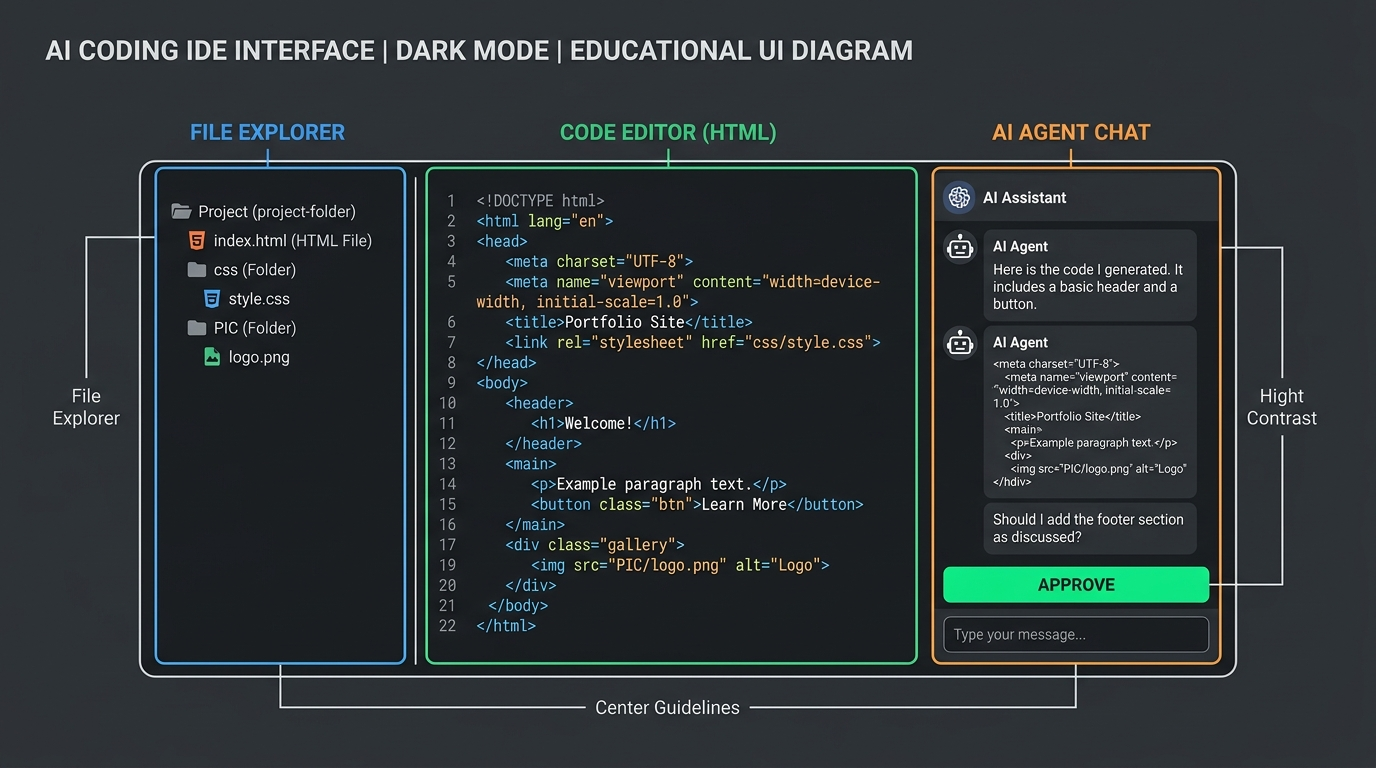
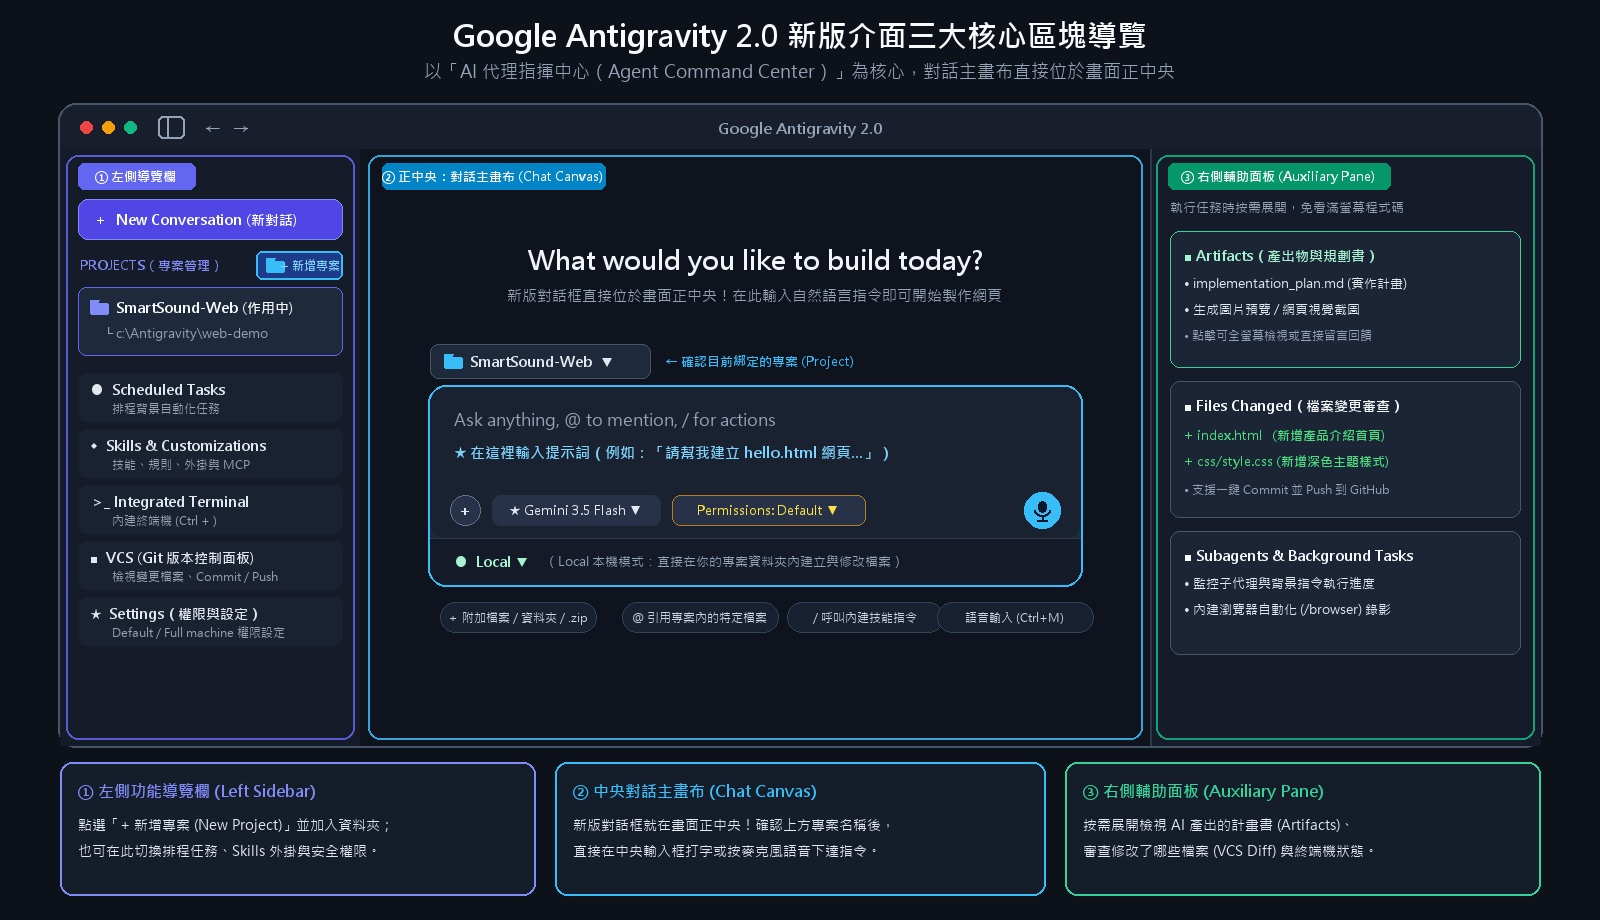
Update Chapter 1 text and UI layout diagram to match Antigravity 2.0

diff --git a/chapters/chapter1.html b/chapters/chapter1.html
@@ -61,84 +61,90 @@
 
       <!-- 1-1 -->
       <section id="sec-1-1" class="content-section">
-        <h2>1-1 什麼是 Antigravity？</h2>
-        <p><strong>Antigravity</strong> 是一款以「Agentic AI（代理型人工智慧）」為核心的新一代智能開發助理與 IDE。傳統的程式碼編輯器需要你自己打每一行程式碼，而 Antigravity 就像配備了一個經驗豐富、24 小時在線的資深工程師伴侶（Pair Programmer）。</p>
-        <p>你不需要預先精通 HTML、CSS 或 JavaScript，只要透過「日常說話的自然語言（Prompt）」，Antigravity 就能替你直接撰寫程式碼、修改錯誤、建立檔案，甚至執行系統指令！</p>
+        <h2>1-1 什麼是 Antigravity 2.0？</h2>
+        <p><strong>Google Antigravity 2.0</strong> 是一款以「Agentic AI（代理型人工智慧）」為核心的獨立桌面應用程式——它就像是你的<strong>「AI 代理指揮中心（Agent Command Center）」</strong>。傳統的開發工具一打開是密密麻麻的程式碼編輯器，而新版 Antigravity 2.0 則將<strong>「AI 對話主畫布（Chat Canvas）」直接放在畫面正中央</strong>，配備一位 24 小時在線的資深工程師伴侶。</p>
+        <p>你不需要預先精通 HTML、CSS 或 JavaScript，只要在正中央的對話框透過「日常說話的自然語言（Prompt）」或直接按麥克風語音說話（<code>Ctrl + M</code>），Antigravity 就能替你直接撰寫程式碼、建立檔案、產生圖片，甚至自動部署網站！</p>
         
         <div class="callout callout-tip">
           <span>💡</span>
           <div>
             <strong>給初學者的信心喊話：</strong>
-            不用害怕看不懂程式碼，在接下來的課程中，我們會學會如何像「產品經理」一樣向 Antigravity 表達需求，由它替我們實作出來。
+            不用害怕看不懂程式碼！新版 Antigravity 2.0 的設計理念就是讓你免看滿螢幕複雜程式碼，學會如何像「產品經理」一樣向 AI 表達需求，由它替我們實作出來。
           </div>
         </div>
       </section>
 
       <!-- 1-2 -->
       <section id="sec-1-2" class="content-section">
-        <h2>1-2 軟體下載與安裝流程</h2>
-        <p>請依照你目前使用的作業系統，依照以下步驟安裝：</p>
+        <h2>1-2 軟體下載、安裝與新版介面導覽</h2>
+        <p>請依照你目前使用的作業系統，依照以下步驟安裝 Antigravity 2.0：</p>
 
         <div class="step-box">
           <span class="step-number">步驟 1</span>
           <h4>取得官方安裝程式</h4>
-          <p>前往官方發布網站或下載連結，依據你的作業系統下載安裝檔：</p>
+          <p>前往官方下載頁面（<code>antigravity.google/download</code>），依據你的作業系統下載安裝檔：</p>
           <ul style="padding-left: 1.5rem; color: var(--text-muted); margin-bottom: 0.5rem;">
-            <li><strong>Windows 用戶：</strong> 下載 <code>.exe</code> 安裝檔案（或透過指令快速安裝）。</li>
-            <li><strong>macOS 用戶：</strong> 下載 <code>.dmg</code> 檔案（支援 Apple Silicon 與 Intel 晶片）。</li>
+            <li><strong>Windows 用戶：</strong> 下載 <code>Antigravity-x64.exe</code> 安裝檔案（支援 Windows 10/11 64-bit）。</li>
+            <li><strong>macOS 用戶：</strong> 下載 <code>Antigravity.dmg</code> 檔案（支援 Apple Silicon 與 Intel 晶片）。</li>
           </ul>
         </div>
 
         <div class="step-box">
           <span class="step-number">步驟 2</span>
           <h4>執行安裝與完成登入</h4>
-          <p>按兩下安裝檔案並依循畫面引導（按「下一步」直至完成）。首次開啟後，點選「Sign in / 登入」，綁定你的 Google / 專屬開發者帳號。</p>
+          <p>按兩下安裝檔案並依循畫面引導完成安裝。首次啟動 Antigravity 2.0 後，點選「Sign in / 登入」，選擇你個人的 Google 帳號即可進入主畫面。</p>
         </div>
 
         <div style="margin: 1.75rem 0; background: var(--bg-card); border: 1px solid var(--border-color); border-radius: 12px; padding: 1rem; text-align: center;">
-          <img src="../PIC/ch1_ide_layout.jpg" alt="Antigravity 三大核心視窗介面配置圖" style="width: 100%; max-width: 780px; border-radius: 8px; border: 1px solid var(--border-color); display: block; margin: 0 auto 0.75rem;">
-          <div style="font-size: 0.9rem; color: var(--text-muted); line-height: 1.6;">
-            <strong>▲ 圖 1-1：Antigravity 介面三大區塊導覽</strong><br>
-            ① <strong>左側檔案總管（File Explorer）</strong>：查看工作區裡有哪些檔案 ｜ ② <strong>中間編輯預覽區（Code Editor）</strong>：檢視 AI 寫好的程式碼 ｜ ③ <strong>右側 AI 對話框（Agent Chat）</strong>：我們下達指令的地方
+          <img src="../PIC/ch1_ide_layout.jpg" alt="Google Antigravity 2.0 新版介面三大核心區塊導覽圖" style="width: 100%; max-width: 820px; border-radius: 8px; border: 1px solid var(--border-color); display: block; margin: 0 auto 0.85rem;">
+          <div style="font-size: 0.9rem; color: var(--text-muted); line-height: 1.7; text-align: left; max-width: 780px; margin: 0 auto;">
+            <div style="text-align: center; font-weight: 700; color: var(--text-main); margin-bottom: 0.4rem;">▲ 圖 1-1：新版 Google Antigravity 2.0 介面三大核心區塊導覽</div>
+            <div>🔹 <strong>① 左側功能導覽欄（Left Sidebar，可點左上角圖示收合）</strong>：不再是傳統複雜的檔案樹！這裡用來點選 <code>📁+ New Project</code> 建立專案工作區、開啟新對話（New Conversation）、管理排程任務（Scheduled Tasks）、外掛技能（Skills）與安全權限（Settings）。</div>
+            <div>🔹 <strong>② 正中央：對話主畫布（Chat Canvas）</strong>：<strong>新版 AI 對話框就在畫面正中央！</strong>上方可確認目前綁定的專案名稱，中央輸入框（<code>Ask anything, @ to mention, / for actions</code>）支援打字、<code>+</code> 附加檔案/資料夾/壓縮檔、<code>🎙</code> 語音輸入（<code>Ctrl + M</code>）以及直接切換權限等級（<code>Permissions</code>）。</div>
+            <div>🔹 <strong>③ 右側輔助面板（Auxiliary Pane，執行時按需展開）</strong>：當 AI 開始工作時，可按需展開檢視 AI 寫好的實作計畫與圖片（<strong>Artifacts 產出物</strong>）、審查修改了哪些檔案（<strong>Files Changed / VCS 面板</strong>）或開啟內建終端機（<code>Ctrl + `</code>）。</div>
           </div>
         </div>
       </section>
 
       <!-- 1-3 -->
       <section id="sec-1-3" class="content-section">
-        <h2>1-3 工作環境（Workspace）深度解析：單資料夾 vs 多資料夾運作</h2>
-        <p>Antigravity 是一個**「具備環境感知能力的代理（Agent）」**，它必須明確知道它在哪裡操作檔案。這就是為什麼「工作區（Workspace）」的概念至關重要！</p>
+        <h2>1-3 專案工作區（Projects & Folders）深度解析：單資料夾 vs 多資料夾運作</h2>
+        <p>Antigravity 是一個<strong>「具備環境感知能力的代理（Agent）」</strong>，它必須明確知道自己被授權在哪個資料夾裡讀寫檔案。在新版 Antigravity 2.0 中，這套安全邊界機制稱為<strong>「Project（專案工作區）」</strong>！</p>
 
         <div class="step-box">
-          <h4>💡 工作環境的核心運作邏輯</h4>
-          <p>當你在 Antigravity 中開啟一個資料夾時，AI 會將該資料夾設為<strong>「作用中工作區（Active Workspace）」</strong>與<strong>「指令執行根目錄（Working Directory）」</strong>。AI 的所有檔案建立、搜尋、修改與終端機指令，都預設在這個安全邊界之內進行，避免影響到電腦的其他私人資料。</p>
+          <h4>💡 如何建立你的第一個 Project（專案工作區）？</h4>
+          <ol style="padding-left: 1.5rem; color: var(--text-muted); line-height: 1.8; margin-bottom: 0.5rem;">
+            <li>點擊<strong>左側導覽欄（Left Sidebar）</strong>中帶有加號的資料夾圖示 <code>📁+</code>，選擇 <strong>New Project（新增專案）</strong>。</li>
+            <li>點擊 <strong>Add Folder（新增資料夾）</strong>，選擇你電腦裡準備專門放這個網站的乾淨空資料夾（例如 <code>C:\Antigravity\web-demo</code>），再按下 <strong>Create</strong>。</li>
+            <li>回到正中央對話框下方，將執行模式維持在預設的 <strong><code>💻 Local</code>（本機模式）</strong>——這代表 AI 會直接在你剛才指定的資料夾內建立與修改網頁檔案！</li>
+          </ol>
         </div>
 
         <div style="margin: 1.75rem 0; background: var(--bg-card); border: 1px solid var(--border-color); border-radius: 12px; padding: 1rem; text-align: center;">
-          <img src="../PIC/ch1_workspace_boundary.jpg" alt="Workspace 安全沙盒邊界示意圖" style="width: 100%; max-width: 780px; border-radius: 8px; border: 1px solid var(--border-color); display: block; margin: 0 auto 0.75rem;">
+          <img src="../PIC/ch1_workspace_boundary.jpg" alt="Project 工作區安全沙盒邊界示意圖" style="width: 100%; max-width: 780px; border-radius: 8px; border: 1px solid var(--border-color); display: block; margin: 0 auto 0.75rem;">
           <div style="font-size: 0.9rem; color: var(--text-muted); line-height: 1.6;">
-            <strong>▲ 圖 1-2：工作區（Workspace）就像 AI 的「專屬安全工作室」</strong><br>
-            開啟獨立的專案資料夾後，AI 只會在發光的安全邊界內建立與修改網頁；外圍的電腦桌面、C 槽系統與私人照片皆受到隔離保護。
+            <strong>▲ 圖 1-2：專案工作區（Project Folders）就像 AI 的「專屬安全工作室」</strong><br>
+            綁定獨立的專案資料夾後，AI 預設只會在發光的安全邊界內建立與修改網頁；外圍的電腦桌面、C 槽系統與私人照片皆受到隔離保護。
           </div>
         </div>
 
-        <h3>兩種工作區使用模式：</h3>
+        <h3>兩種專案資料夾綁定模式：</h3>
         <div style="display: grid; grid-template-columns: repeat(auto-fit, minmax(280px, 1fr)); gap: 1.5rem; margin: 1.5rem 0;">
           <div style="background: var(--bg-card); border: 1px solid var(--border-color); border-radius: 10px; padding: 1.25rem;">
-            <div style="font-weight: 700; color: #818cf8; font-size: 1.05rem; margin-bottom: 0.5rem;">📁 模式 A：單一資料夾工作區（初學推薦）</div>
+            <div style="font-weight: 700; color: #818cf8; font-size: 1.05rem; margin-bottom: 0.5rem;">📁 模式 A：單一資料夾專案（初學最推薦）</div>
             <p style="font-size: 0.9rem; color: var(--text-muted); line-height: 1.6;">
-              <strong>適合場景：</strong> 獨立的小型專案、單一網站或新手練習。<br>
-              <strong>設定方式：</strong> 點選頂部選單 <code>File ➔ Open Folder</code>（開啟資料夾），選擇一個乾淨的空目錄（如 <code>C:\MyProjects\web-demo</code>）。<br>
-              <strong>優點：</strong> 結構單純、AI 不會被外部檔案干擾，所有的相對路徑（如 <code>PIC/image.jpg</code>）都能直接對應。
+              <strong>適合場景：</strong> 獨立網站、商品介紹頁或新手練習。<br>
+              <strong>設定方式：</strong> 在 <code>New Project ➔ Add Folder</code> 時只加入一個乾淨的專屬資料夾（如 <code>C:\Antigravity\web-demo</code>）。<br>
+              <strong>優點：</strong> 結構單純、AI 不會被其他外部檔案干擾，所有的圖片相對路徑（如 <code>PIC/image.jpg</code>）都能直接對應。
             </p>
           </div>
 
           <div style="background: var(--bg-card); border: 1px solid var(--border-color); border-radius: 10px; padding: 1.25rem;">
-            <div style="font-weight: 700; color: #38bdf8; font-size: 1.05rem; margin-bottom: 0.5rem;">🗂 模式 B：多資料夾工作區（Multi-root Workspace）</div>
+            <div style="font-weight: 700; color: #38bdf8; font-size: 1.05rem; margin-bottom: 0.5rem;">🗂 模式 B：多資料夾專案（Multi-folder Project）</div>
             <p style="font-size: 0.9rem; color: var(--text-muted); line-height: 1.6;">
-              <strong>適合場景：</strong> 前後端分離專案（如 <code>frontend/</code> 與 <code>backend/</code>）或需要引用另一個共用素材庫時。<br>
-              <strong>設定方式：</strong> 先開啟主資料夾，再點選 <code>File ➔ Add Folder to Workspace...</code>（新增資料夾至工作區）。<br>
-              <strong>注意事項：</strong> AI 會同時讀取多個根目錄。向 AI 提問時，建議特別指明目標目錄（例如：「請在 frontend 資料夾中建立網頁」）。
+              <strong>適合場景：</strong> 前後端分離專案（如同時要改 <code>frontend/</code> 與 <code>backend/</code>）或需要跨資料夾引用素材庫時。<br>
+              <strong>設定方式：</strong> 在 Project 設定中點選 <code>Add Folder</code> 把多個相關資料夾同時加入同一個 Project。<br>
+              <strong>注意事項：</strong> AI 會同時擁有這幾個資料夾的完整視野。下指令時建議指明目標資料夾（例如：「請在 frontend 資料夾中建立網頁」）。
             </p>
           </div>
         </div>
@@ -146,44 +152,44 @@
 
       <!-- 1-4 權限與自動同意 -->
       <section id="sec-1-4" class="content-section">
-        <h2>1-4 權限管理與自動同意（Auto-Approval）：我們到底授權了什麼？</h2>
+        <h2>1-4 權限管理與自動同意（Permissions）：我們到底授權了什麼？</h2>
         <p>傳統 AI（如一般聊天機器人）只能「回答文字」，但 <strong>Antigravity 具備「行動力（Agency）」</strong> —— 它可以真正幫你寫入檔案、刪除檔案、執行 PowerShell/Bash 終端機指令。因此，理解「我們授予了它什麼權限」是每位學員最重要的安全第一課！</p>
 
         <div class="step-box">
           <h4>🛡 Antigravity 的四大核心能力權限</h4>
           <ol style="padding-left: 1.5rem; color: var(--text-muted); line-height: 1.8;">
             <li><strong>讀取檔案（Read Tools）：</strong> 檢視專案目錄與讀取檔案內容，用來理解現有專案架構。</li>
-            <li><strong>寫入與修改檔案（Write & Edit Tools）：</strong> 建立新檔案、替換或覆蓋程式碼區塊。</li>
-            <li><strong>執行系統指令（Terminal / Run Command）：</strong> 在終端機執行指令（例如 <code>git status</code>、<code>npm install</code>、<code>gh repo create</code> 等）。</li>
-            <li><strong>網路與外部整合（Web Search / API）：</strong> 查詢最新官方文件、呼叫外掛外連服務等。</li>
+            <li><strong>寫入與修改檔案（Write & Edit Tools）：</strong> 在專案資料夾內建立新檔案、替換或覆蓋程式碼區塊。</li>
+            <li><strong>執行系統指令（Terminal / Run Command）：</strong> 在終端機執行指令（例如 <code>git status</code>、<code>gh repo create</code> 等）。</li>
+            <li><strong>網路與外部整合（Web Search / Browser / MCP）：</strong> 查詢最新官方文件、啟動瀏覽器自動化測試（<code>/browser</code>）或呼叫外掛服務。</li>
           </ol>
         </div>
 
-        <h3>什麼是「自動同意（Auto-Approval / Yolo Mode）」？</h3>
-        <p>當 Antigravity 打算修改檔案或在你的電腦終端機跑一段命令時，系統會採取以下兩種防護行為之一：</p>
+        <h3>如何切換「手動審查（Default）」與「自動同意（Auto-Approve）」？</h3>
+        <p>在新版 Antigravity 2.0 中，你可以直接從<strong>中央對話輸入框裡的權限選單（Permissions Picker）</strong>或左側的 <strong>Settings（設定）</strong>中，切換以下兩種主要的授權運作模式：</p>
 
         <div style="margin: 1.5rem 0; background: var(--bg-card); border: 1px solid var(--border-color); border-radius: 12px; padding: 1rem; text-align: center;">
           <img src="../PIC/ch1_permission_modes.jpg" alt="手動審查模式 vs 自動同意模式對照圖" style="width: 100%; max-width: 780px; border-radius: 8px; border: 1px solid var(--border-color); display: block; margin: 0 auto 0.75rem;">
           <div style="font-size: 0.9rem; color: var(--text-muted); line-height: 1.6;">
             <strong>▲ 圖 1-3：手動審查模式（左）與自動同意模式（右）運作差異</strong><br>
-            左方會在每次執行指令前跳出 <code>Approve / Reject</code> 確認視窗；右方則授權 AI 連續自動完成建檔、改碼與部署，大幅提升開發效率。
+            左方會在每次執行終端機指令前跳出 <code>Approve / Reject</code> 確認視窗；右方則授權 AI 連續自動完成建檔、改碼與部署，大幅提升開發效率。
           </div>
         </div>
 
         <div style="display: grid; grid-template-columns: repeat(auto-fit, minmax(280px, 1fr)); gap: 1.5rem; margin: 1.5rem 0;">
           <div style="background: rgba(16, 185, 129, 0.08); border: 1px solid rgba(16, 185, 129, 0.3); border-radius: 10px; padding: 1.25rem;">
-            <div style="font-weight: 700; color: #10b981; font-size: 1rem; margin-bottom: 0.5rem;">👤 手動審查模式（預設安全模式）</div>
+            <div style="font-weight: 700; color: #10b981; font-size: 1rem; margin-bottom: 0.5rem;">👤 預設安全审查模式（Default / Request Review）</div>
             <p style="font-size: 0.88rem; color: var(--text-muted); line-height: 1.6;">
-              每次 AI 準備執行終端機命令或修改關鍵檔案時，視窗會跳出「審查確認按鈕（Approve / Reject）」，讓你看清楚即將執行的指令與程式碼差異（Diff），你點擊「Approve」後它才會動手。<br>
-              <strong>適合：</strong> 初學者、在重要生產環境或包含敏感機密的電腦上。
+              AI 只能在你的 Project 資料夾內讀寫檔案；每次準備執行系統終端機命令（如 Windows PowerShell 指令）時，畫面會跳出「確認按鈕（Approve / Reject）」，你點擊「Approve」後它才會執行。<br>
+              <strong>適合：</strong> 初學者、在重要環境或想逐步觀察 AI 動作時。
             </p>
           </div>
 
           <div style="background: rgba(245, 158, 11, 0.08); border: 1px solid rgba(245, 158, 11, 0.3); border-radius: 10px; padding: 1.25rem;">
-            <div style="font-weight: 700; color: #f59e0b; font-size: 1rem; margin-bottom: 0.5rem;">⚡ 自動同意模式（Auto-Approve）</div>
+            <div style="font-weight: 700; color: #f59e0b; font-size: 1rem; margin-bottom: 0.5rem;">⚡ 自動同意模式（Always Proceed / Unrestricted）</div>
             <p style="font-size: 0.88rem; color: var(--text-muted); line-height: 1.6;">
-              在設定中啟用自動同意後，AI 會自主連續執行讀取、修復、寫檔與指令跑完一整串工作流，不需要你每一動都手動按「同意」，開發速度極快。<br>
-              <strong>適合：</strong> 獨立練習資料夾、快速原型開發（如本課程製作產品網頁與部署）。
+              將工具執行策略設為自動放行後，AI 會自主連續執行讀取、修復、寫檔與終端機指令跑完一整串工作流，不需要你每一動都手動按「同意」，開發速度極快。<br>
+              <strong>適合：</strong> 獨立練習專案、快速原型開發（如本課程製作產品網頁與 GitHub 自動部署）。
             </p>
           </div>
         </div>
@@ -193,7 +199,7 @@
           <div>
             <strong>給學生的資安守則：</strong>
             <ul style="padding-left: 1.25rem; margin-top: 0.25rem; line-height: 1.8;">
-              <li><strong>絕對不要</strong>將個人的整顆硬碟根目錄（如 <code>C:\</code>）或「桌面」直接設為 Workspace！請永遠建立一個專門放這個專案的獨立新資料夾。</li>
+              <li><strong>絕對不要</strong>將個人的整顆硬碟根目錄（如 <code>C:\</code>）或「桌面」直接加入 Project 資料夾！請永遠建立一個專門放這個專案的獨立新資料夾。</li>
               <li><strong>不要在專案資料夾裡放私人密碼檔：</strong> 後續第 4 章我們會將整個資料夾發布到公開的網路上（GitHub）。因此請勿將私人帳密筆記、身分證照片放在這個資料夾內。</li>
               <li><strong>💡 初學者小百科：什麼是 <code>.gitignore</code>（忽略清單）？</strong><br>
                 如果未來你的專案裡真的有一些「只能在自己電腦用、絕對不能傳上網」的私密金鑰檔案（例如寫著密碼的 <code>.env</code> 檔），你可以直接對 Antigravity 說：<br>
@@ -209,20 +215,20 @@
       <!-- 1-5 -->
       <section id="sec-1-5" class="content-section">
         <h2>1-5 第一次與 AI 助手對話實戰</h2>
-        <p>理解了工作區與權限後，現在我們在乾淨的練習資料夾中，在右側的 AI 對話框中輸入下面這段話：</p>
+        <p>理解了專案工作區（Project）與權限後，請確認畫面正中央輸入框上方已經選中你的練習專案，接著在<strong>正中央的對話主畫布（Chat Canvas）輸入框</strong>中貼上（或點擊右側麥克風 <code>🎙</code> 唸出）下面這段話：</p>
 
         <div class="prompt-card">
-          <div class="prompt-tag">💬 提示詞示範（複製發送給 Antigravity）</div>
+          <div class="prompt-tag">💬 提示詞示範（複製貼到正中央 Chat Canvas 輸入框）</div>
           <div class="prompt-body">
-            "你好 Antigravity！我是剛開始學習網頁開發的新手。請幫我在目前的資料夾中建立一個 hello.html 檔案，裡面放一個簡短歡迎標題『歡迎來到 Antigravity 的奇幻世界』，並加上一個漂亮的漸層背景！"
+            "你好 Antigravity！我是剛開始學習網頁開發的新手。請幫我在目前的專案資料夾中建立一個 hello.html 檔案，裡面放一個簡短歡迎標題『歡迎來到 Antigravity 的奇幻世界』，並加上一個漂亮的漸層背景！"
           </div>
         </div>
 
-        <p>發送後，你會看到 Antigravity 會自動呼叫工具建立檔案，並把完整的 HTML 程式碼寫入你的資料夾中。接著只要用瀏覽器點開 <code>hello.html</code>，你就能看到生動的網頁畫面！</p>
+        <p>按下 <code>Enter</code> 發送後，你會看到 Antigravity 自動呼叫寫檔工具，並把完整的 HTML 程式碼寫入你的專案資料夾中（你也可以在右側的 <strong>Files Changed</strong> 面板看到新增的 <code>hello.html</code>）。接著只要打開資料夾點兩下 <code>hello.html</code>，就能在瀏覽器看到生動的網頁畫面！</p>
         
         <div class="callout callout-tip">
           <span>🎉</span>
-          <div>太棒了！你已經完整了解 Antigravity 的環境、權限機制與對話方式。下一章我們將利用更豐富的提示詞與多維度圖片，打造出專業的商品介紹網頁！</div>
+          <div>太棒了！你已經完整掌握新版 Antigravity 2.0 的介面配置、Project 安全邊界、權限機制與對話方式。下一章我們將利用更豐富的提示詞與多角度商品圖片，打造出專業的商品介紹網頁！</div>
         </div>
       </section>
 
